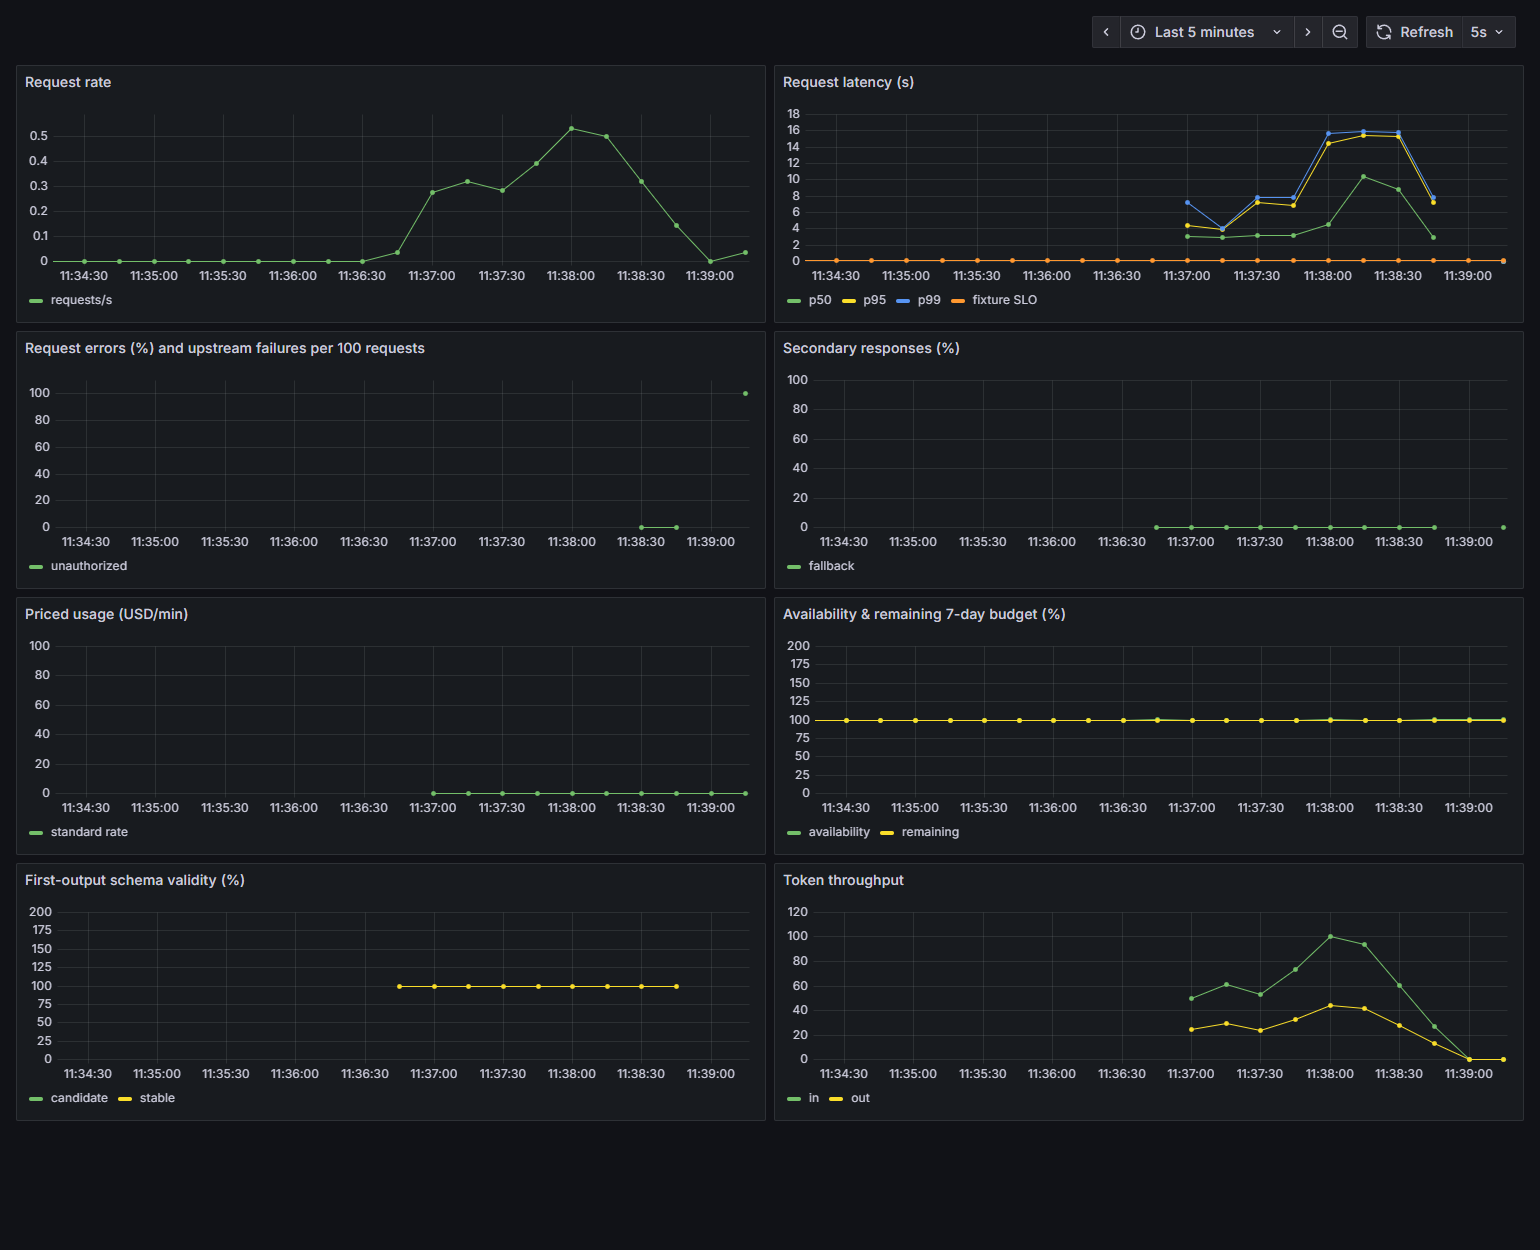
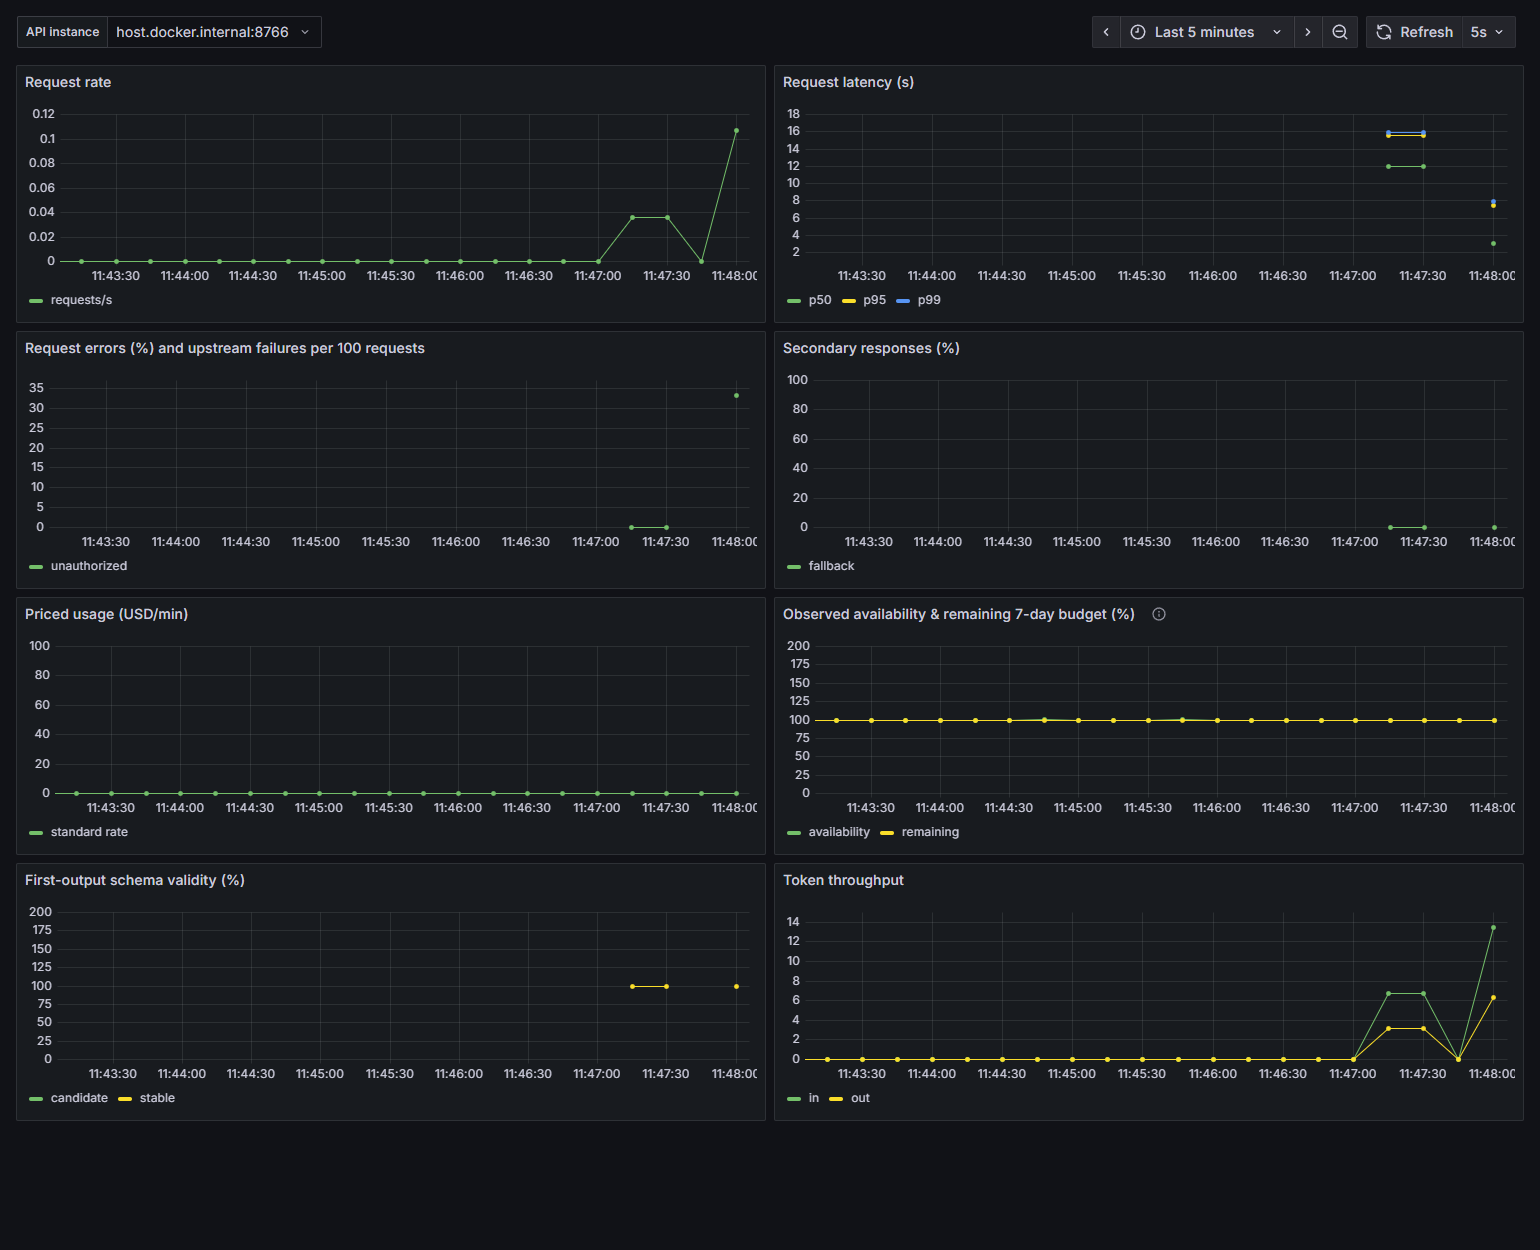
Separate API monitoring and measure seven-day SLO coverage

diff --git a/scripts/slo_report.py b/scripts/slo_report.py
@@ -1,0 +1,67 @@
+"""Measure seven-day request availability and the visible scrape history for one API."""
+import argparse
+import time
+from datetime import datetime, timezone
+
+import httpx
+
+from scripts.common import write
+
+MINUTES = 7 * 24 * 60
+ORIGINS = {"local": "host.docker.internal:8766", "fixture": "api:8000"}
+
+
+def query(client, endpoint, expression, **params):
+    response = client.get("/api/v1/" + endpoint, params={"query": expression, **params})
+    response.raise_for_status()
+    payload = response.json()
+    if payload["status"] != "success":
+        raise ValueError(payload.get("error", "Prometheus query failed"))
+    return payload["data"]["result"]
+
+
+def availability_report(client, mode, now):
+    end = int(now) // 60 * 60
+    start = end - 60 * MINUTES
+    origin = ORIGINS[mode]
+    selector = f'instance="{origin}",job="triage"'
+    # Each evaluation samples the preceding non-overlapping minute. Missing
+    # buckets remain missing rather than turning into successful scrapes.
+    history = query(client, "query_range", f"min(min_over_time(up{{{selector}}}[1m]))",
+                    start=start+60, end=end, step=60)
+    samples = history[0]["values"] if history else []
+    down = sum(float(value) == 0 for _, value in samples)
+
+    def increase(extra):
+        expr = f'sum(increase(triage_requests_total{{{selector},cohort!="unassigned"{extra}}}[7d]))'
+        result = query(client, "query", expr, time=end)
+        return float(result[0]["value"][1]) if result else None
+
+    eligible, successful = increase(""), increase(',outcome="ok"')
+    availability = successful / eligible if eligible and successful is not None else None
+    missing = MINUTES - len(samples)
+    if missing or down:
+        status = "incomplete_scrape_history"
+    elif availability is None:
+        status = "no_measurable_requests"
+    else:
+        status = "met" if availability >= .99 else "missed"
+
+    return dict(mode=mode, instance=origin, target_availability=.99, window_days=7,
+                window_start_utc=datetime.fromtimestamp(start,timezone.utc).isoformat(),
+                window_end_utc=datetime.fromtimestamp(end,timezone.utc).isoformat(),
+                expected_minutes=MINUTES, observed_minutes=len(samples), missing_minutes=missing,
+                minutes_with_failed_scrape=down, estimated_eligible_requests=eligible,
+                estimated_successful_requests=successful, observed_availability=availability,
+                status=status)
+
+
+if __name__ == "__main__":
+    parser = argparse.ArgumentParser(description=__doc__)
+    parser.add_argument("--mode", choices=ORIGINS, default="local")
+    parser.add_argument("--output")
+    args = parser.parse_args()
+    with httpx.Client(base_url="http://127.0.0.1:19090",trust_env=False,timeout=30) as client:
+        report = availability_report(client,args.mode,time.time())
+    write(args.output or f"results/{args.mode}/slo-window.json", report)
+    print(f"{report['instance']}  {report['observed_minutes']}/{MINUTES} minutes observed  {report['status']}")

diff --git a/scripts/stack_evidence.py b/scripts/stack_evidence.py
@@ -56,6 +56,7 @@ def phoenix(c):
 
 
 def capture(c, mode="fixture"):
+    origin="host.docker.internal:8766" if mode=="local" else "api:8000"
     board=c.get(GRAFANA+"/api/dashboards/uid/triage").json()["dashboard"]
     stop=threading.Event()
     errors=[]
@@ -68,11 +69,20 @@ def capture(c, mode="fixture"):
     sender=threading.Thread(target=background)
     sender.start()
     try:
+        query=f'sum(rate(triage_requests_total{{instance="{origin}",outcome="ok"}}[30s]))'
+        deadline=time.monotonic()+120
+        while True:
+            data=c.get(PROM+"/api/v1/query",params={"query":query}).json()
+            if any(float(s["value"][1])>0 for s in data["data"]["result"]):
+                break
+            if errors or time.monotonic()>=deadline:
+                raise RuntimeError(f"No successful traffic observed for {origin}: {errors}")
+            time.sleep(2)
         with sync_playwright() as pw:
             options={"executable_path":os.environ["BROWSER_EXECUTABLE"]} if os.getenv("BROWSER_EXECUTABLE") else {}
             browser=pw.chromium.launch(**options)
             page=browser.new_page(viewport={"width":1540,"height":1250},device_scale_factor=1)
-            page.goto(GRAFANA+"/d/triage/support-ticket-triage?orgId=1&from=now-5m&to=now&refresh=5s&kiosk",
+            page.goto(GRAFANA+f"/d/triage/support-ticket-triage?orgId=1&var-instance={origin}&from=now-5m&to=now&refresh=5s&kiosk",
                       wait_until="domcontentloaded",timeout=60000)
             for panel in board["panels"]:
                 page.get_by_text(panel["title"],exact=True).first.wait_for(timeout=60000)
@@ -84,14 +94,13 @@ def capture(c, mode="fixture"):
         targets=c.get(PROM+"/api/v1/targets").json()["data"]["activeTargets"]
         collector_url="http://collector:8889/metrics"
         assert any(t["scrapeUrl"]==collector_url and t["health"]=="up" for t in targets)
-        origin="host.docker.internal:8766" if mode=="local" else "api:8000"
         source=c.get(PROM+"/api/v1/query",params={"query":f'sum(rate(triage_requests_total{{instance="{origin}"}}[30s]))'}).json()
         assert any(float(s["value"][1])>0 for s in source["data"]["result"]), "No traffic from the selected scrape source"
         checks={}
         for panel in board["panels"]:
             series=0
             for target in panel["targets"]:
-                data=c.get(PROM+"/api/v1/query",params={"query":target["expr"]}).json()
+                data=c.get(PROM+"/api/v1/query",params={"query":target["expr"].replace("$instance",origin)}).json()
                 assert data["status"]=="success"
                 series+=len(data["data"]["result"])
             checks[panel["title"]]=series

diff --git a/tests/test_slo_report.py b/tests/test_slo_report.py
@@ -1,0 +1,29 @@
+import pytest
+
+from scripts import slo_report
+
+
+@pytest.mark.parametrize(("observed","down","eligible","success","expected"), [
+    (16, 0, 47, 47, "incomplete_scrape_history"),
+    (slo_report.MINUTES, 1, 100, 100, "incomplete_scrape_history"),
+    (0, 0, None, None, "incomplete_scrape_history"),
+    (slo_report.MINUTES, 0, 0, 0, "no_measurable_requests"),
+    (slo_report.MINUTES, 0, 100, 99, "met"),
+    (slo_report.MINUTES, 0, 100, 98, "missed"),
+])
+def test_seven_day_status(monkeypatch, observed, down, eligible, success, expected):
+    end = 1_800_000_000
+    def query(client, endpoint, expression, **params):
+        assert 'instance="host.docker.internal:8766"' in expression
+        if endpoint == "query_range":
+            assert params == dict(start=end-60*(slo_report.MINUTES-1), end=end, step=60)
+            return [{"values":[[params["start"]+60*i, str(int(i >= down))] for i in range(observed)]}] if observed else []
+        assert params == {"time":end}
+        value = success if 'outcome="ok"' in expression else eligible
+        return [{"value":[end,str(value)]}] if value is not None else []
+    monkeypatch.setattr(slo_report, "query", query)
+    report = slo_report.availability_report(None, "local", end+55)
+    assert report["status"] == expected
+    assert report["missing_minutes"] == slo_report.MINUTES-observed
+    assert report["minutes_with_failed_scrape"] == down
+    assert report["observed_availability"] == (success/eligible if eligible else None)

diff --git a/RUNBOOK.md b/RUNBOOK.md
@@ -10,6 +10,8 @@ Use the request timestamp, prompt version, model and Git revision to correlate s
 
 ## TriageFastBurn
 
+Select the alert's API instance in Grafana. Run `python -m scripts.slo_report --mode local` for the Qwen host or `--mode fixture` for Compose. Each report checks 10,080 one-minute buckets ending at the latest completed UTC minute. A bucket is observed when Prometheus has an upstream `up` sample for that API. Missing buckets or observed failed scrapes mark the history incomplete. A successful scrape samples the service at one instant. Request volumes are Prometheus counter-increase estimates and can be fractional. An idle instance can have scrape coverage and no measurable request availability.
+
 **Meaning.** The accepted-client failure ratio exceeds 14.4 times a 1% seven-day budget in both 5-minute and 1-hour windows for at least one minute. Excluded pre-admission requests still count in errors by class. Early in a new deployment, windows contain only available history.
 
 **Check.** Inspect Prometheus targets and scrape continuity, then group request outcomes and failed attempts by error class. Look at the recent version and secondary percentage. Check the provider timeout, 429, provider 5xx, invalid input and schema failure series. The rate-limit or input cap may be acting as designed. Prometheus contains the rules. Connect an Alertmanager receiver before relying on paging in staging.

diff --git a/README.md b/README.md
@@ -117,6 +117,8 @@ Set RECORD_REPLAY=1 only for a controlled development run. Replay uses a disk ca
 
 ## Load and SLOs
 
+Select an API instance in Grafana to inspect its traffic and error budget. The Qwen and fixture instances have independent burn-rate and cost alerts. At 11:45 IST on 24 November 2026, Prometheus had Qwen samples in **16 of 10,080 minutes** and fixture samples in **81**. Both showed 100% success among observed eligible requests. The seven-day verdict for both was **incomplete**. Run `python -m scripts.slo_report --mode local` to refresh the Qwen report. [Qwen coverage](results/local/slo-window.json) · [Fixture coverage](results/fixture/slo-window.json)
+
 The same k6 script also exercised the stable v1 **real Qwen API** on Docker Desktop. Each 16-second stage repeatedly submitted an order-tracking ticket to the authenticated host API. Completed throughput includes time spent draining in-flight requests after each stage. These short runs characterize one laptop and one ticket shape.
 
 |Offered RPS|Completed requests|Completed RPS including drain|p50 / p95 / p99 (s)|HTTP errors / dropped arrivals|
